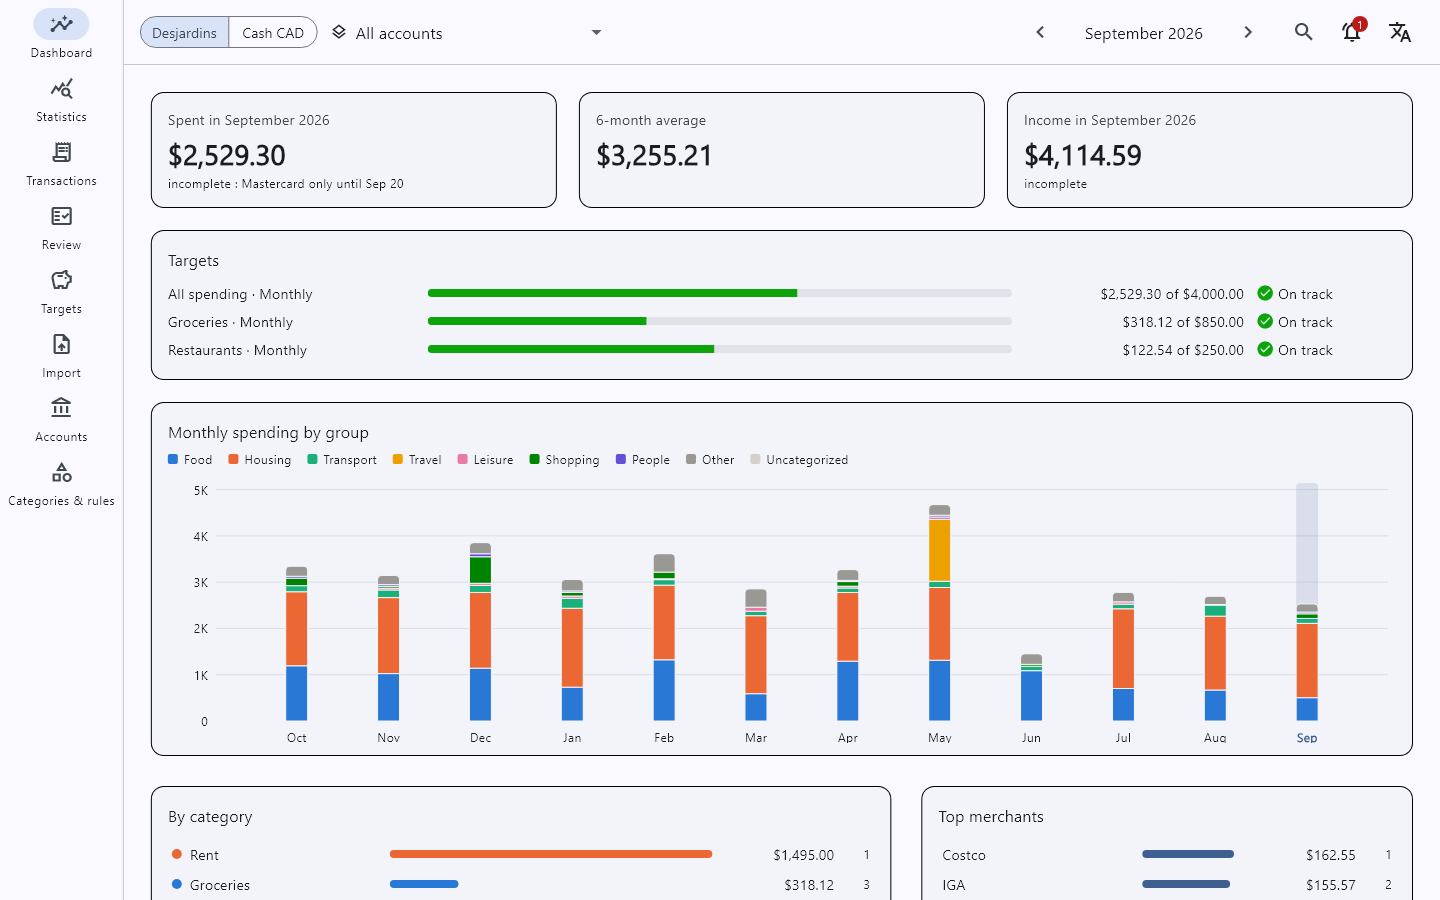
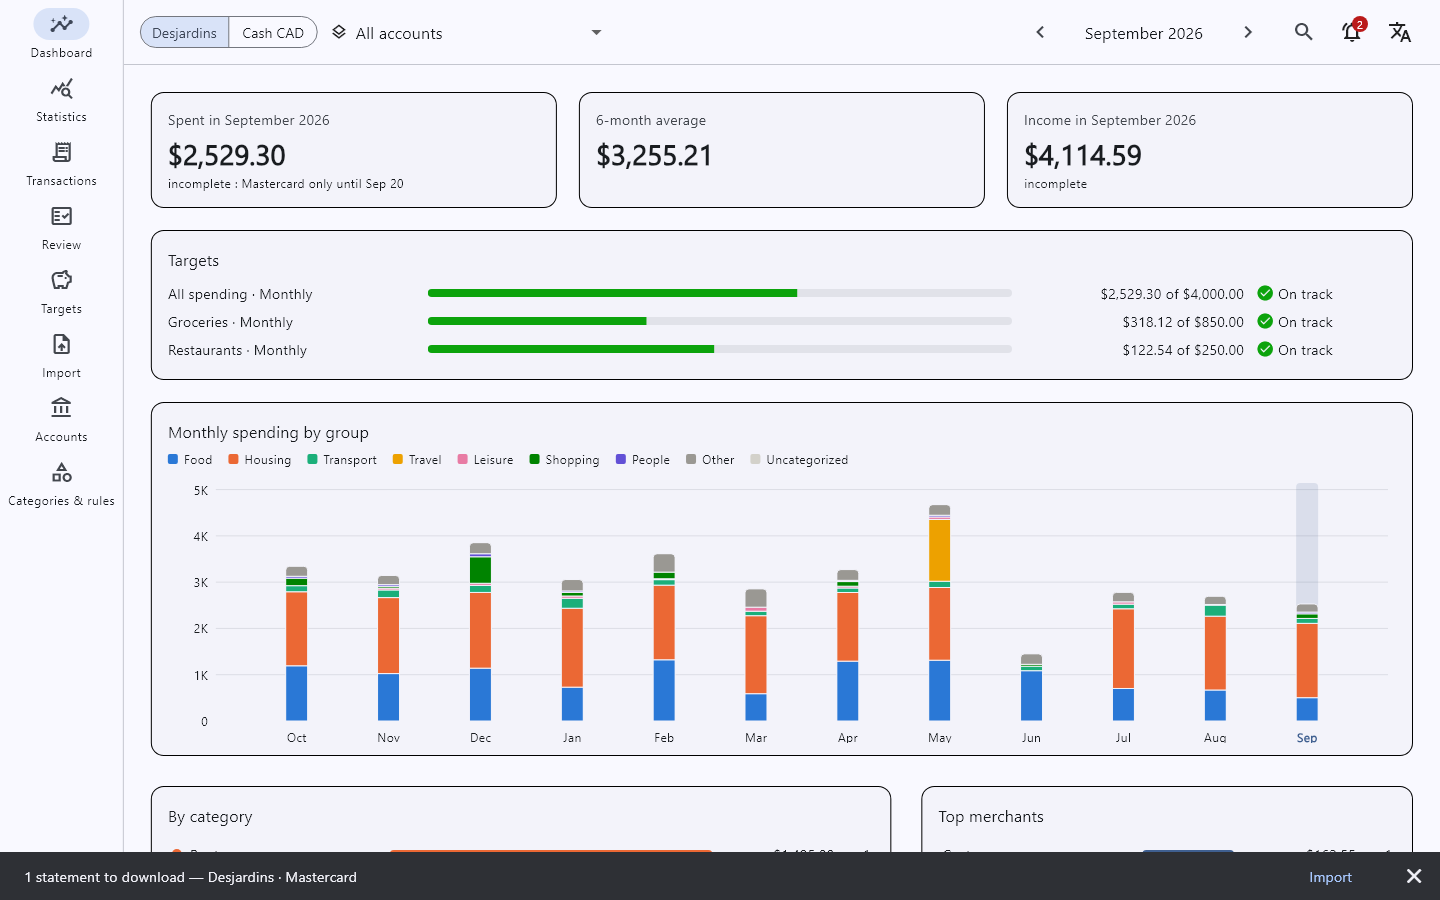
fix(demo): demo day Oct 24, safe running-app check
On Oct 22 the bell had no due statement yet (3 days of grace after the
Oct 20 card statement), so the walkthrough's first stop pointed at nothing:
the demo day is now Oct 24, the bell asks for the card statement and the
dropped exports answer it. demo.bat calls Windows' own find.exe: with
Git's find first on PATH the check failed open and the demo would start
next to the owner's running app.

Changed region(s): [[0.0, 0.9333, 1.0, 1.0]]

diff --git a/packages/demo/test/showcase_test.dart b/packages/demo/test/showcase_test.dart
@@ -1,4 +1,5 @@
 import 'package:banks/banks.dart';
+import 'package:core/core.dart' show DueStatement, dueStatements;
 import 'package:demo/demo.dart';
 import 'package:demo/src/database.dart' show importDay;
 import 'package:demo/src/showcase.dart';
@@ -30,6 +31,18 @@ void main() {
             fileName: name,
             fileType: 'csv',
           );
+
+      Future<List<DueStatement>> due() async => dueStatements([
+        for (final s in await db.select(db.statements).get()) (s.institution, s.format, s.periodEnd),
+      ], demoToday);
+
+      test('on the demo day the bell asks for the card statement; the drop answers it', () async {
+        expect((await due()).map((d) => d.format), contains('desjardins-card'));
+        for (final name in csvs.keys) {
+          await drop(name);
+        }
+        expect((await due()).map((d) => d.format), isNot(contains('desjardins-card')));
+      });
 
       test('nothing to review before the drop', () async {
         final pending = await (db.select(db.transactions)..where((t) => t.needsReview)).get();

diff --git a/packages/demo/lib/src/showcase.dart b/packages/demo/lib/src/showcase.dart
@@ -9,6 +9,11 @@ import 'persona.dart';
 /// Public on purpose: it only ever protects made-up personas.
 const demoPassword = 'demo database password';
 
+/// The day a demo believes it is (`EXPENSES_TODAY` in demo.bat, the screenshots):
+/// four days after the last card statement, so the bell asks for it (3 days of
+/// grace) and the dropped exports answer it.
+final DateTime demoToday = DateTime.utc(2026, 10, 24);
+
 /// Fills [db] (empty) with what a demo starts from: every statement of
 /// [persona] but the last card statement, everything imported reviewed
 /// (except its merchants left to review), its targets. Returns the held-back

diff --git a/apps/desktop/test/demo_shots_test.dart b/apps/desktop/test/demo_shots_test.dart
@@ -49,7 +49,7 @@ void main() {
     tester.view.devicePixelRatio = 1;
     addTearDown(tester.view.reset);
     final realClock = appClock;
-    appClock = () => DateTime(2026, 10, 22, 12);
+    appClock = () => DateTime(demoToday.year, demoToday.month, demoToday.day, 12);
     addTearDown(() => appClock = realClock);
 
     final folder = Directory(out!)..createSync(recursive: true);

diff --git a/docs/13-demo.md b/docs/13-demo.md
@@ -27,7 +27,7 @@ invented store numbers, made-up shops and people.
    `releve-carte-0022.csv`) you drop at the import stop.
 
 The app starts on the demo database directly (its public password, `demo database password`, is given by
-`demo.bat`) and believes today is **October 22, 2026**, two days after the last card statement. Run
+`demo.bat`) and believes today is **October 24, 2026**, four days after the last card statement (so the bell asks for it). Run
 `demo.bat` again to start over.
 
 ## 3. The walkthrough (couple, ~5 minutes)
@@ -35,7 +35,7 @@ The app starts on the demo database directly (its public password, `demo databas
 | # | Stop | Where | What to do | What to say |
 |---|------|-------|------------|-------------|
 | 1 | `dashboard` | Dashboard | Point at the three tiles, the targets, the bell | "Two years of a household, imported from bank files, nothing typed. September at a glance: spent, income, how the targets stand. The bell: a statement to download, an unusual bill." |
-| 2 | `import` | Import | Drag both `releve-carte-*.csv` from the folder onto the page | "This is the bank's own export. Dropped: 24 new lines, already sorted, the card payment matched with the checking account. Drop them again: nothing is counted twice." |
+| 2 | `import` | Import | Drag both `releve-carte-*.csv` from the folder onto the page | "This is the bank's own export. Dropped: 24 new lines, already sorted, the card payment matched with the checking account, and the bell's reminder is gone. Drop them again: nothing is counted twice." |
 | 3 | `review` | Review | Open the one line left (Kickstarter), pick a category, confirm | "Known shops were sorted by themselves; only a new one asks. One click and it is learned." |
 | 4 | `categories` | Statistics → Categories | Click the Food bar, then the "analyze only" icon of Groceries | "Where the money goes, rent apart. Groceries alone: month by month, and a card per store, how often and how much." |
 | 5 | `recurring` | Statistics → Recurring (clear the Groceries chip first) | Scroll the list | "Found by itself: rent, transit pass, Hydro every two months, the dentist twice a year, and Virgin's bill that went up in September." |
